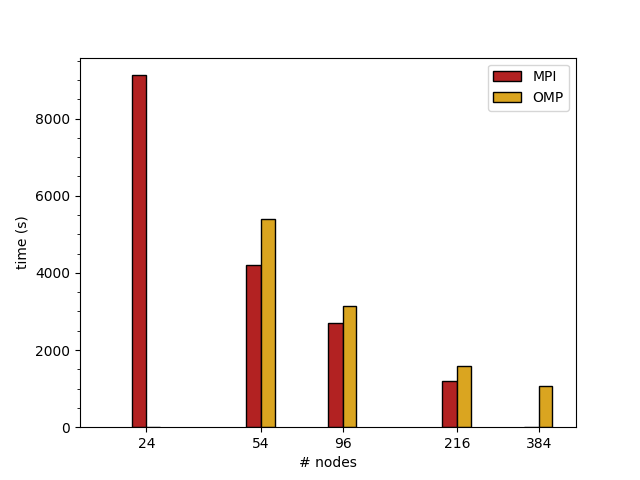
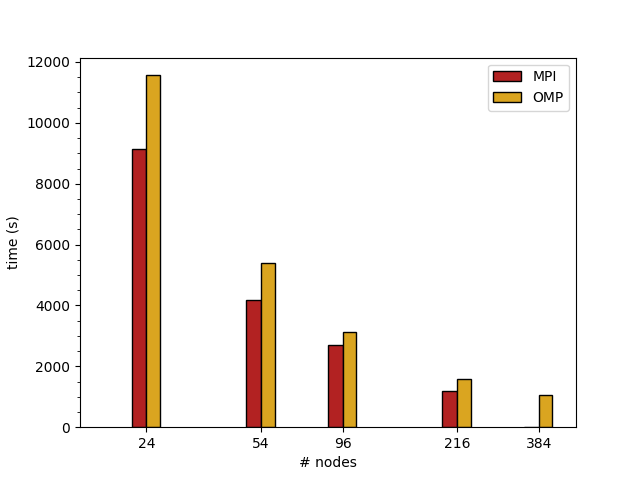
Writing, writing, writing.

diff --git a/scaling.tex b/scaling.tex
@@ -2,19 +2,72 @@
 The Gung Ho dynamical core uses an unstructured mesh to avoid a
 singular pole which ultimately inhibits the scaling of the
 UM. Examining the scaling behavour of the model to if the model can
-perform sufficiently well is important. To test the scaling a series
+perform sufficiently well is therefore important. To test the scaling a series
 of model runs was performed. The version of the LFRic repository trunk
 was $17483$. The code was compiled on the XCS with the Intel 17
 compiler, at production level which is \verb+-O3+. The baroclinic wave
-test was run on a $C576$ mesh with 30 levels. The time-step was $180$s
+test was run on a $C576$ mesh. This roughly corresponds to a $17$km
+horizontal resolution. The model was run with a $30$km lid and with
+$30$ levels.  The time-step used was $180$s
 seconds and the benchmarks were run for $100$ time-steps. The code was
 profiled using the CrayPAT tool in sampling mode. 
 
 \begin{figure}
 \centering\includegraphics[width=1.0\linewidth]{figs/wc-scale.eps}
 \caption{\label{fig:wc_scale}Wall-clock time strong scaling of the 
-  Baroclinic wave test.}
+  Baroclinic wave test. In red, labelled MPI is an MPI only
+  version. In yellow, labelled OMP is the hybrid MPI+OpenMP version.}
 \end{figure} 
+
+Shown in figure~\ref{fig:wc_scale} is the strong scaling of the whole
+model up to $384$ nodes. The MPI only version ran with $36$ MPI ranks
+per node. The hybrid version ran with $6$ MPI ranks per node and $6$
+openMP threads per MPI rank. The MPI only version on $384$ nodes
+crashed during the partitioning phase with an Out Of Memory (OOM)
+error. The global mesh is read in by every MPI rank and then
+partitioned. This can cause memory problems for large meshes on larger
+node counts. This can be solved by a single rank per node reading in
+the mesh and broadcasting the partition. The $24$ node hybrid job ran
+out of time after 3 hours at $93$ time-steps, so the run time has been
+estimated from the log data. This data is also shown in
+table~\ref{tab:scale-data}.
+
+\begin{table}
+\centering
+\caption{\label{tab:scale-data}Wall-clock time of execution of the whole code (WC), User
+  code (U), Halo Exchange (HE) and Global Sum (GS) in seconds. Also
+  shown is the Local Volume per MPI ranks (LV) and the Halo Size (HS)
+  measured in number of horizontal cells.}
+\begin{tabular}{r|rrrr|cr}
+N & WC & U & HE & GS & LV & HS  \\
+    & \multicolumn{4}{c|}{time (s)} & \multicolumn{2}{c}{cells} \\ \hline\hline
+     &  \multicolumn{4}{c|}{MPI}& \\
+$24$  & $9126$ & $4107$ & $788$ & $502$ & $48\times 48$ & $196$ \\
+$54$  & $4196$ & $3139$ & $411$ & $470$ & $32\times 32$ & $132$ \\ 
+$96$  & $2693$ & $1508$ & $380$ & $679$ & $24\times 32$ & $100$ \\ 
+$216$ & $1202$ & $566$  & $302$ & $174$ & $16\times 16$ & $68$  \\ 
+$384$ & $--$   & $--$   & $--$  & $--$  & $12\times 12$ & $54$ \\\hline
+  & \multicolumn{4}{c|}{Hybrid} & \\
+$24$ &$11566$ & $--$    & $--$  & $--$ & $96\times 144$ & $484$ \\
+$54$ & $5410$  & $2732$ & $1282$ & $887$ & $64\times 96$ & $324$ \\
+$96$ &$3140$  & $1332$ & $895$ & $562$ & $48\times 72$ & $244$ \\
+$216$ &$1585$  & $468$ & $485$ & $384$ & $32\times 48$ & $164$ \\
+$384$ &$1059$  & $222$ & $310$ & $322$ & $24\times 32$ & $124$ \\\hline
+\end{tabular}
+\end{table}
+
+The model shows good scaling for both the MPI and hybrid programming
+models. The parallel efficiency is reasonable, the $216$ node job uses
+$9\times $ the resouces of the $24$ node job and both the MPI and
+hybrid version run more than $7\times $ faster . The hybrid code for the
+$384$ node job which has $16\times $ the resource of the $24$ node
+job, runs approxmiately $11 \times$ faster.
+
+Compared to the scaling runs performed with the {\em Fallow Deer} (FD)
+release of LFRic and reported in~\cite{lfric} there is an apparent
+change in the OpenMP behaviour. The FD scaling shows the hybrid version of
+the code is faster than the MPI version, whereas the opposite is now
+true for the data displayed here. 
 
 \begin{figure}
 \centering\includegraphics[width=1.0\linewidth]{figs/U-scale.eps}
@@ -28,4 +81,3 @@ profiled using the CrayPAT tool in sampling mode.
   communications costs of the Baroclinic wave test.}
 \end{figure} 
 
-Shown in figure~\ref{fig:wc_scale} is the strong scaling 

diff --git a/Analysis/scale.py b/Analysis/scale.py
@@ -130,9 +130,15 @@ T1U=T1W*P1U
 lnodes=[0,0,0,0,0]
 for i in range(0,5):
     lnodes[i]=math.log(nodes[i],2)
-    print lnodes[i]
 
-plot2Data(nodes, T1W, T6W,"wc-scale")
-plot2Data(nodes, T1U, T6U,"U-scale")
-plot4Data3d(lnodes, T1HE, T6HE, T1GS, T6GS,"comms-scale-3d")
-plot4Data(nodes, T1HE, T6HE, T1GS, T6GS,"comms-scale")
+for i in range(1,5):
+    print str(nodes[i]/nodes[0]) + " " + str(T6W[0]/T6W[i] ) + " " + str(T1W[0]/T1W[i])
+
+print "----"
+for i in range(0,5):
+    print "$"+str(nodes[i])+ "$ & $" + str(T1W[i]) + "$ & $" + str(T1U[i]) + "$ & $" + str(T1HE[i]) + "$ & $" + str(T1GS[i]) + "$ & $$ & $$ & $"+ str(T6W[i]) + "$ & $" + str(T6U[i]) + "$ & $" + str(T6HE[i]) + "$ & $" + str(T6GS[i]) + "$ & $$ & $$ \\\\"
+
+#plot2Data(nodes, T1W, T6W,"wc-scale")
+#plot2Data(nodes, T1U, T6U,"U-scale")
+#plot4Data3d(lnodes, T1HE, T6HE, T1GS, T6GS,"comms-scale-3d")
+#plot4Data(nodes, T1HE, T6HE, T1GS, T6GS,"comms-scale")
